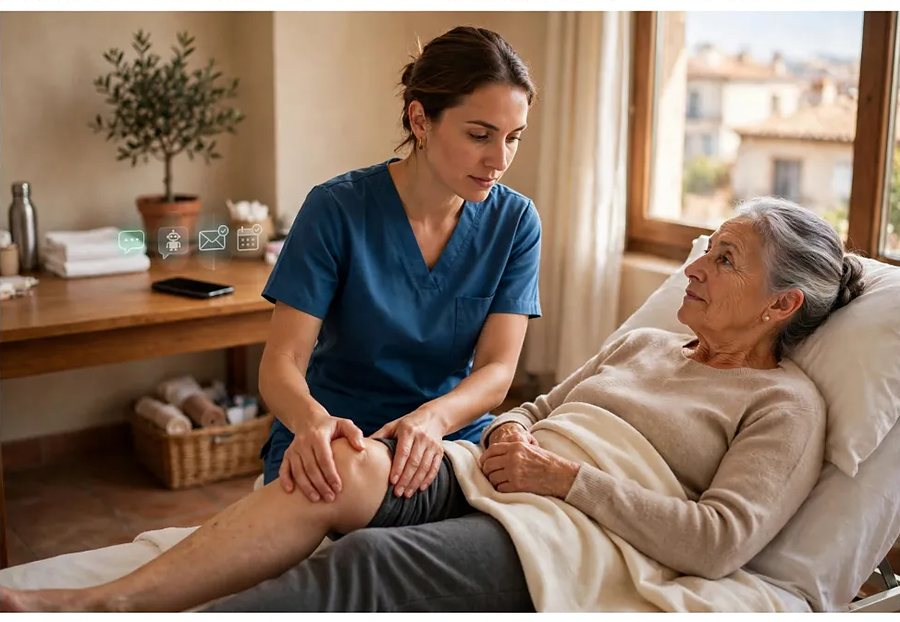
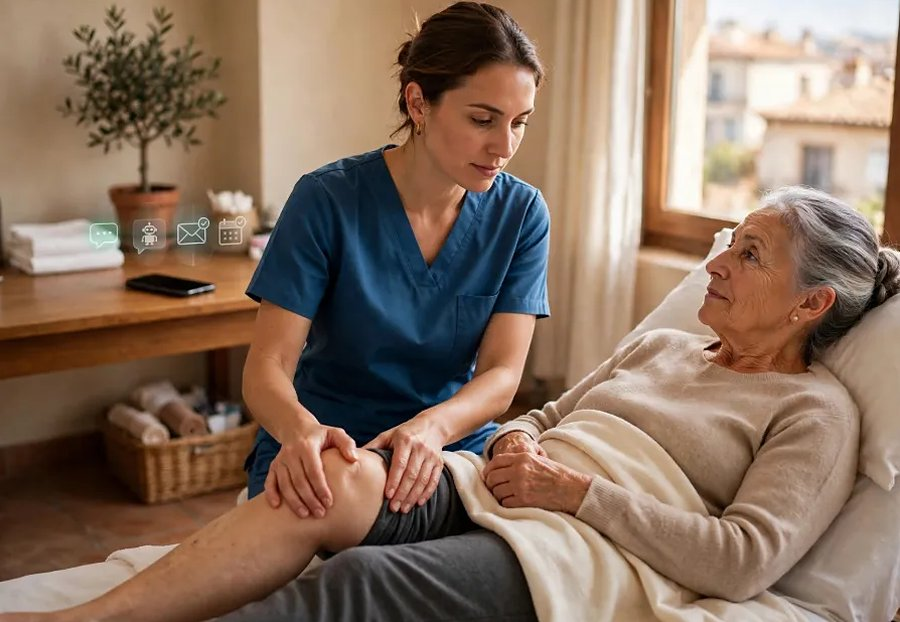
Fotos: sin bordes blancos, más transparentes en las páginas y con avisos flotantes

diff --git a/sectores/gimnasios.html b/sectores/gimnasios.html
@@ -302,7 +302,7 @@ footer{background:var(--bg-panel);border-top:1px solid var(--grey-line);padding:
   </div>
 </div>
 
-<style>.page-photo{max-width:940px;margin:34px auto 0;padding:0 24px;}.page-photo img{display:block;width:100%;height:auto;aspect-ratio:900/622;object-fit:cover;border-radius:20px;border:1px solid var(--grey-line);box-shadow:0 24px 60px -26px rgba(0,0,0,.7);}@media(max-width:700px){.page-photo{margin-top:22px;padding:0 16px;}.page-photo img{border-radius:14px;}}</style><figure class="page-photo"><img src="../assets/sectores/gimnasios.jpg" alt="Un entrenador atendiendo a una socia en recepción con el asistente virtual gestionando reservas y mensajes" width="900" height="622" loading="lazy"></figure>
+<style>.page-photo{position:relative;max-width:940px;margin:34px auto 0;padding:0 24px;}.page-photo .pp-img{position:relative;border-radius:20px;overflow:hidden;border:1px solid var(--grey-line);}.page-photo img{display:block;width:100%;height:auto;aspect-ratio:900/622;object-fit:cover;opacity:.5;filter:saturate(.85);-webkit-mask-image:linear-gradient(180deg,#000 45%,transparent 100%);mask-image:linear-gradient(180deg,#000 45%,transparent 100%);}.pp-chip{position:absolute;z-index:2;display:inline-flex;align-items:center;gap:8px;max-width:78%;padding:7px 12px;border-radius:99px;background:rgba(20,19,25,.8);backdrop-filter:blur(8px);border:1px solid rgba(255,255,255,.16);color:#fff;font-size:.74rem;font-weight:600;box-shadow:0 8px 24px rgba(0,0,0,.35);animation:ppFloat 5s ease-in-out infinite;}.pp-chip i{width:8px;height:8px;border-radius:50%;background:#22c55e;flex-shrink:0;box-shadow:0 0 0 4px rgba(34,197,94,.25);}.pp-chip.a{left:20px;top:16px;}.pp-chip.b{right:20px;bottom:18px;animation-delay:-2.5s;}.pp-chip.b i{background:var(--gold);box-shadow:0 0 0 4px rgba(217,168,63,.25);}@keyframes ppFloat{0%,100%{transform:translateY(0);}50%{transform:translateY(-5px);}}@media(prefers-reduced-motion:reduce){.pp-chip{animation:none;}}@media(max-width:700px){.page-photo{margin-top:22px;padding:0 16px;}.page-photo .pp-img{border-radius:14px;}.pp-chip{font-size:.68rem;padding:6px 10px;}.pp-chip.a{left:24px;top:12px;}.pp-chip.b{right:24px;bottom:12px;}}</style><figure class="page-photo"><div class="pp-img"><img src="../assets/sectores/gimnasios.jpg" alt="Un entrenador atendiendo a una socia en recepción con el asistente virtual gestionando reservas y mensajes" width="900" height="622" loading="lazy"><span class="pp-chip a"><i></i>Reserva de clase confirmada</span><span class="pp-chip b"><i></i>Mensaje respondido por el asistente virtual</span></div></figure>
 
 <div class="section-block reveal">
   <div class="container">

diff --git a/sectores/abogados.html b/sectores/abogados.html
@@ -302,7 +302,7 @@ footer{background:var(--bg-panel);border-top:1px solid var(--grey-line);padding:
   </div>
 </div>
 
-<style>.page-photo{max-width:940px;margin:34px auto 0;padding:0 24px;}.page-photo img{display:block;width:100%;height:auto;aspect-ratio:900/622;object-fit:cover;border-radius:20px;border:1px solid var(--grey-line);box-shadow:0 24px 60px -26px rgba(0,0,0,.7);}@media(max-width:700px){.page-photo{margin-top:22px;padding:0 16px;}.page-photo img{border-radius:14px;}}</style><figure class="page-photo"><img src="../assets/sectores/abogados.jpg" alt="Una abogada atendiendo a un cliente en su despacho con el asistente virtual gestionando citas y correos" width="900" height="622" loading="lazy"></figure>
+<style>.page-photo{position:relative;max-width:940px;margin:34px auto 0;padding:0 24px;}.page-photo .pp-img{position:relative;border-radius:20px;overflow:hidden;border:1px solid var(--grey-line);}.page-photo img{display:block;width:100%;height:auto;aspect-ratio:900/622;object-fit:cover;opacity:.5;filter:saturate(.85);-webkit-mask-image:linear-gradient(180deg,#000 45%,transparent 100%);mask-image:linear-gradient(180deg,#000 45%,transparent 100%);}.pp-chip{position:absolute;z-index:2;display:inline-flex;align-items:center;gap:8px;max-width:78%;padding:7px 12px;border-radius:99px;background:rgba(20,19,25,.8);backdrop-filter:blur(8px);border:1px solid rgba(255,255,255,.16);color:#fff;font-size:.74rem;font-weight:600;box-shadow:0 8px 24px rgba(0,0,0,.35);animation:ppFloat 5s ease-in-out infinite;}.pp-chip i{width:8px;height:8px;border-radius:50%;background:#22c55e;flex-shrink:0;box-shadow:0 0 0 4px rgba(34,197,94,.25);}.pp-chip.a{left:20px;top:16px;}.pp-chip.b{right:20px;bottom:18px;animation-delay:-2.5s;}.pp-chip.b i{background:var(--gold);box-shadow:0 0 0 4px rgba(217,168,63,.25);}@keyframes ppFloat{0%,100%{transform:translateY(0);}50%{transform:translateY(-5px);}}@media(prefers-reduced-motion:reduce){.pp-chip{animation:none;}}@media(max-width:700px){.page-photo{margin-top:22px;padding:0 16px;}.page-photo .pp-img{border-radius:14px;}.pp-chip{font-size:.68rem;padding:6px 10px;}.pp-chip.a{left:24px;top:12px;}.pp-chip.b{right:24px;bottom:12px;}}</style><figure class="page-photo"><div class="pp-img"><img src="../assets/sectores/abogados.jpg" alt="Una abogada atendiendo a un cliente en su despacho con el asistente virtual gestionando citas y correos" width="900" height="622" loading="lazy"><span class="pp-chip a"><i></i>Cita agendada en tu calendario</span><span class="pp-chip b"><i></i>Correo clasificado por el asistente virtual</span></div></figure>
 
 <div class="section-block reveal">
   <div class="container">

diff --git a/sectores/inmobiliarias.html b/sectores/inmobiliarias.html
@@ -302,7 +302,7 @@ footer{background:var(--bg-panel);border-top:1px solid var(--grey-line);padding:
   </div>
 </div>
 
-<style>.page-photo{max-width:940px;margin:34px auto 0;padding:0 24px;}.page-photo img{display:block;width:100%;height:auto;aspect-ratio:900/622;object-fit:cover;border-radius:20px;border:1px solid var(--grey-line);box-shadow:0 24px 60px -26px rgba(0,0,0,.7);}@media(max-width:700px){.page-photo{margin-top:22px;padding:0 16px;}.page-photo img{border-radius:14px;}}</style><figure class="page-photo"><img src="../assets/sectores/inmobiliarias.jpg" alt="Una agente inmobiliaria explicando una vivienda a una pareja con su asistente virtual respondiendo consultas" width="900" height="622" loading="lazy"></figure>
+<style>.page-photo{position:relative;max-width:940px;margin:34px auto 0;padding:0 24px;}.page-photo .pp-img{position:relative;border-radius:20px;overflow:hidden;border:1px solid var(--grey-line);}.page-photo img{display:block;width:100%;height:auto;aspect-ratio:900/622;object-fit:cover;opacity:.5;filter:saturate(.85);-webkit-mask-image:linear-gradient(180deg,#000 45%,transparent 100%);mask-image:linear-gradient(180deg,#000 45%,transparent 100%);}.pp-chip{position:absolute;z-index:2;display:inline-flex;align-items:center;gap:8px;max-width:78%;padding:7px 12px;border-radius:99px;background:rgba(20,19,25,.8);backdrop-filter:blur(8px);border:1px solid rgba(255,255,255,.16);color:#fff;font-size:.74rem;font-weight:600;box-shadow:0 8px 24px rgba(0,0,0,.35);animation:ppFloat 5s ease-in-out infinite;}.pp-chip i{width:8px;height:8px;border-radius:50%;background:#22c55e;flex-shrink:0;box-shadow:0 0 0 4px rgba(34,197,94,.25);}.pp-chip.a{left:20px;top:16px;}.pp-chip.b{right:20px;bottom:18px;animation-delay:-2.5s;}.pp-chip.b i{background:var(--gold);box-shadow:0 0 0 4px rgba(217,168,63,.25);}@keyframes ppFloat{0%,100%{transform:translateY(0);}50%{transform:translateY(-5px);}}@media(prefers-reduced-motion:reduce){.pp-chip{animation:none;}}@media(max-width:700px){.page-photo{margin-top:22px;padding:0 16px;}.page-photo .pp-img{border-radius:14px;}.pp-chip{font-size:.68rem;padding:6px 10px;}.pp-chip.a{left:24px;top:12px;}.pp-chip.b{right:24px;bottom:12px;}}</style><figure class="page-photo"><div class="pp-img"><img src="../assets/sectores/inmobiliarias.jpg" alt="Una agente inmobiliaria explicando una vivienda a una pareja con su asistente virtual respondiendo consultas" width="900" height="622" loading="lazy"><span class="pp-chip a"><i></i>Consulta sobre un piso respondida</span><span class="pp-chip b"><i></i>Visita agendada</span></div></figure>
 
 <div class="section-block reveal">
   <div class="container">

diff --git a/sectores/comercio-pequeno.html b/sectores/comercio-pequeno.html
@@ -298,7 +298,7 @@ footer{background:var(--bg-panel);border-top:1px solid var(--grey-line);padding:
   </div>
 </div>
 
-<style>.page-photo{max-width:1040px;margin:34px auto 0;padding:0 24px;}.page-photo img{display:block;width:100%;height:auto;aspect-ratio:1400/788;object-fit:cover;border-radius:20px;border:1px solid var(--grey-line);box-shadow:0 24px 60px -26px rgba(0,0,0,.7);}@media(max-width:700px){.page-photo{margin-top:22px;padding:0 16px;}.page-photo img{border-radius:14px;}}</style><figure class="page-photo"><img src="../assets/paginas/comercio.jpg" alt="Un comercio de barrio: el tendero atiende a una clienta mientras su asistente virtual gestiona mensajes y citas" width="1400" height="788" loading="lazy"></figure>
+<style>.page-photo{position:relative;max-width:1040px;margin:34px auto 0;padding:0 24px;}.page-photo .pp-img{position:relative;border-radius:20px;overflow:hidden;border:1px solid var(--grey-line);}.page-photo img{display:block;width:100%;height:auto;aspect-ratio:1400/788;object-fit:cover;opacity:.5;filter:saturate(.85);-webkit-mask-image:linear-gradient(180deg,#000 45%,transparent 100%);mask-image:linear-gradient(180deg,#000 45%,transparent 100%);}.pp-chip{position:absolute;z-index:2;display:inline-flex;align-items:center;gap:8px;max-width:78%;padding:7px 12px;border-radius:99px;background:rgba(20,19,25,.8);backdrop-filter:blur(8px);border:1px solid rgba(255,255,255,.16);color:#fff;font-size:.74rem;font-weight:600;box-shadow:0 8px 24px rgba(0,0,0,.35);animation:ppFloat 5s ease-in-out infinite;}.pp-chip i{width:8px;height:8px;border-radius:50%;background:#22c55e;flex-shrink:0;box-shadow:0 0 0 4px rgba(34,197,94,.25);}.pp-chip.a{left:20px;top:16px;}.pp-chip.b{right:20px;bottom:18px;animation-delay:-2.5s;}.pp-chip.b i{background:var(--gold);box-shadow:0 0 0 4px rgba(217,168,63,.25);}@keyframes ppFloat{0%,100%{transform:translateY(0);}50%{transform:translateY(-5px);}}@media(prefers-reduced-motion:reduce){.pp-chip{animation:none;}}@media(max-width:700px){.page-photo{margin-top:22px;padding:0 16px;}.page-photo .pp-img{border-radius:14px;}.pp-chip{font-size:.68rem;padding:6px 10px;}.pp-chip.a{left:24px;top:12px;}.pp-chip.b{right:24px;bottom:12px;}}</style><figure class="page-photo"><div class="pp-img"><img src="../assets/paginas/comercio.jpg" alt="Un comercio de barrio: el tendero atiende a una clienta mientras su asistente virtual gestiona mensajes y citas" width="1400" height="788" loading="lazy"><span class="pp-chip a"><i></i>Consulta de un cliente respondida</span><span class="pp-chip b"><i></i>Cita agendada</span></div></figure>
 
 <div class="section-block reveal">
   <div class="container">

diff --git a/sectores/clinicas.html b/sectores/clinicas.html
@@ -302,7 +302,7 @@ footer{background:var(--bg-panel);border-top:1px solid var(--grey-line);padding:
   </div>
 </div>
 
-<style>.page-photo{max-width:940px;margin:34px auto 0;padding:0 24px;}.page-photo img{display:block;width:100%;height:auto;aspect-ratio:900/622;object-fit:cover;border-radius:20px;border:1px solid var(--grey-line);box-shadow:0 24px 60px -26px rgba(0,0,0,.7);}@media(max-width:700px){.page-photo{margin-top:22px;padding:0 16px;}.page-photo img{border-radius:14px;}}</style><figure class="page-photo"><img src="../assets/sectores/clinicas.jpg" alt="Una fisioterapeuta atendiendo a una paciente mientras el asistente virtual gestiona las citas" width="900" height="622" loading="lazy"></figure>
+<style>.page-photo{position:relative;max-width:940px;margin:34px auto 0;padding:0 24px;}.page-photo .pp-img{position:relative;border-radius:20px;overflow:hidden;border:1px solid var(--grey-line);}.page-photo img{display:block;width:100%;height:auto;aspect-ratio:900/622;object-fit:cover;opacity:.5;filter:saturate(.85);-webkit-mask-image:linear-gradient(180deg,#000 45%,transparent 100%);mask-image:linear-gradient(180deg,#000 45%,transparent 100%);}.pp-chip{position:absolute;z-index:2;display:inline-flex;align-items:center;gap:8px;max-width:78%;padding:7px 12px;border-radius:99px;background:rgba(20,19,25,.8);backdrop-filter:blur(8px);border:1px solid rgba(255,255,255,.16);color:#fff;font-size:.74rem;font-weight:600;box-shadow:0 8px 24px rgba(0,0,0,.35);animation:ppFloat 5s ease-in-out infinite;}.pp-chip i{width:8px;height:8px;border-radius:50%;background:#22c55e;flex-shrink:0;box-shadow:0 0 0 4px rgba(34,197,94,.25);}.pp-chip.a{left:20px;top:16px;}.pp-chip.b{right:20px;bottom:18px;animation-delay:-2.5s;}.pp-chip.b i{background:var(--gold);box-shadow:0 0 0 4px rgba(217,168,63,.25);}@keyframes ppFloat{0%,100%{transform:translateY(0);}50%{transform:translateY(-5px);}}@media(prefers-reduced-motion:reduce){.pp-chip{animation:none;}}@media(max-width:700px){.page-photo{margin-top:22px;padding:0 16px;}.page-photo .pp-img{border-radius:14px;}.pp-chip{font-size:.68rem;padding:6px 10px;}.pp-chip.a{left:24px;top:12px;}.pp-chip.b{right:24px;bottom:12px;}}</style><figure class="page-photo"><div class="pp-img"><img src="../assets/sectores/clinicas.jpg" alt="Una fisioterapeuta atendiendo a una paciente mientras el asistente virtual gestiona las citas" width="900" height="622" loading="lazy"><span class="pp-chip a"><i></i>Recordatorio de cita enviado</span><span class="pp-chip b"><i></i>Paciente atendido por WhatsApp</span></div></figure>
 
 <div class="section-block reveal" style="padding-bottom:0;">
   <div class="container">

diff --git a/soluciones/llamadas.html b/soluciones/llamadas.html
@@ -302,7 +302,7 @@ footer{background:var(--bg-panel);border-top:1px solid var(--grey-line);padding:
   </div>
 </div>
 
-<style>.page-photo{max-width:1040px;margin:34px auto 0;padding:0 24px;}.page-photo img{display:block;width:100%;height:auto;aspect-ratio:1200/750;object-fit:cover;border-radius:20px;border:1px solid var(--grey-line);box-shadow:0 24px 60px -26px rgba(0,0,0,.7);}@media(max-width:700px){.page-photo{margin-top:22px;padding:0 16px;}.page-photo img{border-radius:14px;}}</style><figure class="page-photo"><img src="../assets/paginas/llamadas.jpg" alt="Una veterinaria con un gatito en su clínica mientras el asistente virtual atiende las llamadas" width="1200" height="750" loading="lazy"></figure>
+<style>.page-photo{position:relative;max-width:1040px;margin:34px auto 0;padding:0 24px;}.page-photo .pp-img{position:relative;border-radius:20px;overflow:hidden;border:1px solid var(--grey-line);}.page-photo img{display:block;width:100%;height:auto;aspect-ratio:1200/750;object-fit:cover;opacity:.5;filter:saturate(.85);-webkit-mask-image:linear-gradient(180deg,#000 45%,transparent 100%);mask-image:linear-gradient(180deg,#000 45%,transparent 100%);}.pp-chip{position:absolute;z-index:2;display:inline-flex;align-items:center;gap:8px;max-width:78%;padding:7px 12px;border-radius:99px;background:rgba(20,19,25,.8);backdrop-filter:blur(8px);border:1px solid rgba(255,255,255,.16);color:#fff;font-size:.74rem;font-weight:600;box-shadow:0 8px 24px rgba(0,0,0,.35);animation:ppFloat 5s ease-in-out infinite;}.pp-chip i{width:8px;height:8px;border-radius:50%;background:#22c55e;flex-shrink:0;box-shadow:0 0 0 4px rgba(34,197,94,.25);}.pp-chip.a{left:20px;top:16px;}.pp-chip.b{right:20px;bottom:18px;animation-delay:-2.5s;}.pp-chip.b i{background:var(--gold);box-shadow:0 0 0 4px rgba(217,168,63,.25);}@keyframes ppFloat{0%,100%{transform:translateY(0);}50%{transform:translateY(-5px);}}@media(prefers-reduced-motion:reduce){.pp-chip{animation:none;}}@media(max-width:700px){.page-photo{margin-top:22px;padding:0 16px;}.page-photo .pp-img{border-radius:14px;}.pp-chip{font-size:.68rem;padding:6px 10px;}.pp-chip.a{left:24px;top:12px;}.pp-chip.b{right:24px;bottom:12px;}}</style><figure class="page-photo"><div class="pp-img"><img src="../assets/paginas/llamadas.jpg" alt="Una veterinaria con un gatito en su clínica mientras el asistente virtual atiende las llamadas" width="1200" height="750" loading="lazy"><span class="pp-chip a"><i></i>Llamada contestada por el asistente virtual</span><span class="pp-chip b"><i></i>Cita agendada</span></div></figure>
 
 <div class="section-block reveal">
   <div class="container">

diff --git a/sectores/oficios.html b/sectores/oficios.html
@@ -300,7 +300,7 @@ footer{background:var(--bg-panel);border-top:1px solid var(--grey-line);padding:
   </div>
 </div>
 
-<style>.page-photo{max-width:940px;margin:34px auto 0;padding:0 24px;}.page-photo img{display:block;width:100%;height:auto;aspect-ratio:900/622;object-fit:cover;border-radius:20px;border:1px solid var(--grey-line);box-shadow:0 24px 60px -26px rgba(0,0,0,.7);}@media(max-width:700px){.page-photo{margin-top:22px;padding:0 16px;}.page-photo img{border-radius:14px;}}</style><figure class="page-photo"><img src="../assets/sectores/oficios.jpg" alt="Un fontanero trabajando bajo el fregadero mientras el asistente virtual atiende a sus clientes" width="900" height="622" loading="lazy"></figure>
+<style>.page-photo{position:relative;max-width:940px;margin:34px auto 0;padding:0 24px;}.page-photo .pp-img{position:relative;border-radius:20px;overflow:hidden;border:1px solid var(--grey-line);}.page-photo img{display:block;width:100%;height:auto;aspect-ratio:900/622;object-fit:cover;opacity:.5;filter:saturate(.85);-webkit-mask-image:linear-gradient(180deg,#000 45%,transparent 100%);mask-image:linear-gradient(180deg,#000 45%,transparent 100%);}.pp-chip{position:absolute;z-index:2;display:inline-flex;align-items:center;gap:8px;max-width:78%;padding:7px 12px;border-radius:99px;background:rgba(20,19,25,.8);backdrop-filter:blur(8px);border:1px solid rgba(255,255,255,.16);color:#fff;font-size:.74rem;font-weight:600;box-shadow:0 8px 24px rgba(0,0,0,.35);animation:ppFloat 5s ease-in-out infinite;}.pp-chip i{width:8px;height:8px;border-radius:50%;background:#22c55e;flex-shrink:0;box-shadow:0 0 0 4px rgba(34,197,94,.25);}.pp-chip.a{left:20px;top:16px;}.pp-chip.b{right:20px;bottom:18px;animation-delay:-2.5s;}.pp-chip.b i{background:var(--gold);box-shadow:0 0 0 4px rgba(217,168,63,.25);}@keyframes ppFloat{0%,100%{transform:translateY(0);}50%{transform:translateY(-5px);}}@media(prefers-reduced-motion:reduce){.pp-chip{animation:none;}}@media(max-width:700px){.page-photo{margin-top:22px;padding:0 16px;}.page-photo .pp-img{border-radius:14px;}.pp-chip{font-size:.68rem;padding:6px 10px;}.pp-chip.a{left:24px;top:12px;}.pp-chip.b{right:24px;bottom:12px;}}</style><figure class="page-photo"><div class="pp-img"><img src="../assets/sectores/oficios.jpg" alt="Un fontanero trabajando bajo el fregadero mientras el asistente virtual atiende a sus clientes" width="900" height="622" loading="lazy"><span class="pp-chip a"><i></i>Presupuesto pedido por WhatsApp</span><span class="pp-chip b"><i></i>Nuevo cliente avisado</span></div></figure>
 
 <div class="section-block reveal">
   <div class="container">

diff --git a/sectores/estetica.html b/sectores/estetica.html
@@ -302,7 +302,7 @@ footer{background:var(--bg-panel);border-top:1px solid var(--grey-line);padding:
   </div>
 </div>
 
-<style>.page-photo{max-width:940px;margin:34px auto 0;padding:0 24px;}.page-photo img{display:block;width:100%;height:auto;aspect-ratio:900/622;object-fit:cover;border-radius:20px;border:1px solid var(--grey-line);box-shadow:0 24px 60px -26px rgba(0,0,0,.7);}@media(max-width:700px){.page-photo{margin-top:22px;padding:0 16px;}.page-photo img{border-radius:14px;}}</style><figure class="page-photo"><img src="../assets/sectores/estetica.jpg" alt="Una esteticista con una clienta en cabina mientras el asistente virtual gestiona las reservas" width="900" height="622" loading="lazy"></figure>
+<style>.page-photo{position:relative;max-width:940px;margin:34px auto 0;padding:0 24px;}.page-photo .pp-img{position:relative;border-radius:20px;overflow:hidden;border:1px solid var(--grey-line);}.page-photo img{display:block;width:100%;height:auto;aspect-ratio:900/622;object-fit:cover;opacity:.5;filter:saturate(.85);-webkit-mask-image:linear-gradient(180deg,#000 45%,transparent 100%);mask-image:linear-gradient(180deg,#000 45%,transparent 100%);}.pp-chip{position:absolute;z-index:2;display:inline-flex;align-items:center;gap:8px;max-width:78%;padding:7px 12px;border-radius:99px;background:rgba(20,19,25,.8);backdrop-filter:blur(8px);border:1px solid rgba(255,255,255,.16);color:#fff;font-size:.74rem;font-weight:600;box-shadow:0 8px 24px rgba(0,0,0,.35);animation:ppFloat 5s ease-in-out infinite;}.pp-chip i{width:8px;height:8px;border-radius:50%;background:#22c55e;flex-shrink:0;box-shadow:0 0 0 4px rgba(34,197,94,.25);}.pp-chip.a{left:20px;top:16px;}.pp-chip.b{right:20px;bottom:18px;animation-delay:-2.5s;}.pp-chip.b i{background:var(--gold);box-shadow:0 0 0 4px rgba(217,168,63,.25);}@keyframes ppFloat{0%,100%{transform:translateY(0);}50%{transform:translateY(-5px);}}@media(prefers-reduced-motion:reduce){.pp-chip{animation:none;}}@media(max-width:700px){.page-photo{margin-top:22px;padding:0 16px;}.page-photo .pp-img{border-radius:14px;}.pp-chip{font-size:.68rem;padding:6px 10px;}.pp-chip.a{left:24px;top:12px;}.pp-chip.b{right:24px;bottom:12px;}}</style><figure class="page-photo"><div class="pp-img"><img src="../assets/sectores/estetica.jpg" alt="Una esteticista con una clienta en cabina mientras el asistente virtual gestiona las reservas" width="900" height="622" loading="lazy"><span class="pp-chip a"><i></i>Reserva confirmada</span><span class="pp-chip b"><i></i>Recordatorio enviado a la clienta</span></div></figure>
 
 <div class="section-block reveal">
   <div class="container">

diff --git a/soluciones/whatsapp.html b/soluciones/whatsapp.html
@@ -309,7 +309,7 @@ footer{background:var(--bg-panel);border-top:1px solid var(--grey-line);padding:
   </div>
 </div>
 
-<style>.page-photo{max-width:1040px;margin:34px auto 0;padding:0 24px;}.page-photo img{display:block;width:100%;height:auto;aspect-ratio:1200/750;object-fit:cover;border-radius:20px;border:1px solid var(--grey-line);box-shadow:0 24px 60px -26px rgba(0,0,0,.7);}@media(max-width:700px){.page-photo{margin-top:22px;padding:0 16px;}.page-photo img{border-radius:14px;}}</style><figure class="page-photo"><img src="../assets/paginas/whatsapp.jpg" alt="Un mecánico atendiendo a un cliente mientras el asistente virtual responde por WhatsApp" width="1200" height="750" loading="lazy"></figure>
+<style>.page-photo{position:relative;max-width:1040px;margin:34px auto 0;padding:0 24px;}.page-photo .pp-img{position:relative;border-radius:20px;overflow:hidden;border:1px solid var(--grey-line);}.page-photo img{display:block;width:100%;height:auto;aspect-ratio:1200/750;object-fit:cover;opacity:.5;filter:saturate(.85);-webkit-mask-image:linear-gradient(180deg,#000 45%,transparent 100%);mask-image:linear-gradient(180deg,#000 45%,transparent 100%);}.pp-chip{position:absolute;z-index:2;display:inline-flex;align-items:center;gap:8px;max-width:78%;padding:7px 12px;border-radius:99px;background:rgba(20,19,25,.8);backdrop-filter:blur(8px);border:1px solid rgba(255,255,255,.16);color:#fff;font-size:.74rem;font-weight:600;box-shadow:0 8px 24px rgba(0,0,0,.35);animation:ppFloat 5s ease-in-out infinite;}.pp-chip i{width:8px;height:8px;border-radius:50%;background:#22c55e;flex-shrink:0;box-shadow:0 0 0 4px rgba(34,197,94,.25);}.pp-chip.a{left:20px;top:16px;}.pp-chip.b{right:20px;bottom:18px;animation-delay:-2.5s;}.pp-chip.b i{background:var(--gold);box-shadow:0 0 0 4px rgba(217,168,63,.25);}@keyframes ppFloat{0%,100%{transform:translateY(0);}50%{transform:translateY(-5px);}}@media(prefers-reduced-motion:reduce){.pp-chip{animation:none;}}@media(max-width:700px){.page-photo{margin-top:22px;padding:0 16px;}.page-photo .pp-img{border-radius:14px;}.pp-chip{font-size:.68rem;padding:6px 10px;}.pp-chip.a{left:24px;top:12px;}.pp-chip.b{right:24px;bottom:12px;}}</style><figure class="page-photo"><div class="pp-img"><img src="../assets/paginas/whatsapp.jpg" alt="Un mecánico atendiendo a un cliente mientras el asistente virtual responde por WhatsApp" width="1200" height="750" loading="lazy"><span class="pp-chip a"><i></i>Mensaje respondido en segundos</span><span class="pp-chip b"><i></i>Cita agendada</span></div></figure>
 
 <div class="section-block reveal">
   <div class="container">

diff --git a/soluciones/ciberseguridad.html b/soluciones/ciberseguridad.html
@@ -278,7 +278,7 @@ footer{background:var(--bg-panel);border-top:1px solid var(--grey-line);padding:
   </div>
 </div>
 
-<style>.page-photo{max-width:1040px;margin:34px auto 0;padding:0 24px;}.page-photo img{display:block;width:100%;height:auto;aspect-ratio:1200/750;object-fit:cover;border-radius:20px;border:1px solid var(--grey-line);box-shadow:0 24px 60px -26px rgba(0,0,0,.7);}@media(max-width:700px){.page-photo{margin-top:22px;padding:0 16px;}.page-photo img{border-radius:14px;}}</style><figure class="page-photo"><img src="../assets/paginas/ciberseguridad.jpg" alt="Un autónomo trabajando con su portátil protegido por seguridad informática" width="1200" height="750" loading="lazy"></figure>
+<style>.page-photo{position:relative;max-width:1040px;margin:34px auto 0;padding:0 24px;}.page-photo .pp-img{position:relative;border-radius:20px;overflow:hidden;border:1px solid var(--grey-line);}.page-photo img{display:block;width:100%;height:auto;aspect-ratio:1200/750;object-fit:cover;opacity:.5;filter:saturate(.85);-webkit-mask-image:linear-gradient(180deg,#000 45%,transparent 100%);mask-image:linear-gradient(180deg,#000 45%,transparent 100%);}.pp-chip{position:absolute;z-index:2;display:inline-flex;align-items:center;gap:8px;max-width:78%;padding:7px 12px;border-radius:99px;background:rgba(20,19,25,.8);backdrop-filter:blur(8px);border:1px solid rgba(255,255,255,.16);color:#fff;font-size:.74rem;font-weight:600;box-shadow:0 8px 24px rgba(0,0,0,.35);animation:ppFloat 5s ease-in-out infinite;}.pp-chip i{width:8px;height:8px;border-radius:50%;background:#22c55e;flex-shrink:0;box-shadow:0 0 0 4px rgba(34,197,94,.25);}.pp-chip.a{left:20px;top:16px;}.pp-chip.b{right:20px;bottom:18px;animation-delay:-2.5s;}.pp-chip.b i{background:var(--gold);box-shadow:0 0 0 4px rgba(217,168,63,.25);}@keyframes ppFloat{0%,100%{transform:translateY(0);}50%{transform:translateY(-5px);}}@media(prefers-reduced-motion:reduce){.pp-chip{animation:none;}}@media(max-width:700px){.page-photo{margin-top:22px;padding:0 16px;}.page-photo .pp-img{border-radius:14px;}.pp-chip{font-size:.68rem;padding:6px 10px;}.pp-chip.a{left:24px;top:12px;}.pp-chip.b{right:24px;bottom:12px;}}</style><figure class="page-photo"><div class="pp-img"><img src="../assets/paginas/ciberseguridad.jpg" alt="Un autónomo trabajando con su portátil protegido por seguridad informática" width="1200" height="750" loading="lazy"><span class="pp-chip a"><i></i>Copia de seguridad completada</span><span class="pp-chip b"><i></i>Accesos revisados</span></div></figure>
 
 <div class="section-block reveal">
   <div class="container">

diff --git a/soluciones/email-ia.html b/soluciones/email-ia.html
@@ -298,7 +298,7 @@ footer{background:var(--bg-panel);border-top:1px solid var(--grey-line);padding:
   </div>
 </div>
 
-<style>.page-photo{max-width:1040px;margin:34px auto 0;padding:0 24px;}.page-photo img{display:block;width:100%;height:auto;aspect-ratio:1200/750;object-fit:cover;border-radius:20px;border:1px solid var(--grey-line);box-shadow:0 24px 60px -26px rgba(0,0,0,.7);}@media(max-width:700px){.page-photo{margin-top:22px;padding:0 16px;}.page-photo img{border-radius:14px;}}</style><figure class="page-photo"><img src="../assets/paginas/email-ia.jpg" alt="Una oficina donde el correo se ordena y contesta con ayuda de un asistente virtual" width="1200" height="750" loading="lazy"></figure>
+<style>.page-photo{position:relative;max-width:1040px;margin:34px auto 0;padding:0 24px;}.page-photo .pp-img{position:relative;border-radius:20px;overflow:hidden;border:1px solid var(--grey-line);}.page-photo img{display:block;width:100%;height:auto;aspect-ratio:1200/750;object-fit:cover;opacity:.5;filter:saturate(.85);-webkit-mask-image:linear-gradient(180deg,#000 45%,transparent 100%);mask-image:linear-gradient(180deg,#000 45%,transparent 100%);}.pp-chip{position:absolute;z-index:2;display:inline-flex;align-items:center;gap:8px;max-width:78%;padding:7px 12px;border-radius:99px;background:rgba(20,19,25,.8);backdrop-filter:blur(8px);border:1px solid rgba(255,255,255,.16);color:#fff;font-size:.74rem;font-weight:600;box-shadow:0 8px 24px rgba(0,0,0,.35);animation:ppFloat 5s ease-in-out infinite;}.pp-chip i{width:8px;height:8px;border-radius:50%;background:#22c55e;flex-shrink:0;box-shadow:0 0 0 4px rgba(34,197,94,.25);}.pp-chip.a{left:20px;top:16px;}.pp-chip.b{right:20px;bottom:18px;animation-delay:-2.5s;}.pp-chip.b i{background:var(--gold);box-shadow:0 0 0 4px rgba(217,168,63,.25);}@keyframes ppFloat{0%,100%{transform:translateY(0);}50%{transform:translateY(-5px);}}@media(prefers-reduced-motion:reduce){.pp-chip{animation:none;}}@media(max-width:700px){.page-photo{margin-top:22px;padding:0 16px;}.page-photo .pp-img{border-radius:14px;}.pp-chip{font-size:.68rem;padding:6px 10px;}.pp-chip.a{left:24px;top:12px;}.pp-chip.b{right:24px;bottom:12px;}}</style><figure class="page-photo"><div class="pp-img"><img src="../assets/paginas/email-ia.jpg" alt="Una oficina donde el correo se ordena y contesta con ayuda de un asistente virtual" width="1200" height="750" loading="lazy"><span class="pp-chip a"><i></i>Correo clasificado</span><span class="pp-chip b"><i></i>Borrador de respuesta listo</span></div></figure>
 
 <div class="section-block reveal">
   <div class="container">

diff --git a/soluciones/web-ia.html b/soluciones/web-ia.html
@@ -312,7 +312,7 @@ footer{background:var(--bg-panel);border-top:1px solid var(--grey-line);padding:
   </div>
 </div>
 
-<style>.page-photo{max-width:1040px;margin:34px auto 0;padding:0 24px;}.page-photo img{display:block;width:100%;height:auto;aspect-ratio:1200/750;object-fit:cover;border-radius:20px;border:1px solid var(--grey-line);box-shadow:0 24px 60px -26px rgba(0,0,0,.7);}@media(max-width:700px){.page-photo{margin-top:22px;padding:0 16px;}.page-photo img{border-radius:14px;}}</style><figure class="page-photo"><img src="../assets/paginas/web-ia.jpg" alt="Una persona consultando desde el móvil el asistente virtual de una web" width="1200" height="750" loading="lazy"></figure>
+<style>.page-photo{position:relative;max-width:1040px;margin:34px auto 0;padding:0 24px;}.page-photo .pp-img{position:relative;border-radius:20px;overflow:hidden;border:1px solid var(--grey-line);}.page-photo img{display:block;width:100%;height:auto;aspect-ratio:1200/750;object-fit:cover;opacity:.5;filter:saturate(.85);-webkit-mask-image:linear-gradient(180deg,#000 45%,transparent 100%);mask-image:linear-gradient(180deg,#000 45%,transparent 100%);}.pp-chip{position:absolute;z-index:2;display:inline-flex;align-items:center;gap:8px;max-width:78%;padding:7px 12px;border-radius:99px;background:rgba(20,19,25,.8);backdrop-filter:blur(8px);border:1px solid rgba(255,255,255,.16);color:#fff;font-size:.74rem;font-weight:600;box-shadow:0 8px 24px rgba(0,0,0,.35);animation:ppFloat 5s ease-in-out infinite;}.pp-chip i{width:8px;height:8px;border-radius:50%;background:#22c55e;flex-shrink:0;box-shadow:0 0 0 4px rgba(34,197,94,.25);}.pp-chip.a{left:20px;top:16px;}.pp-chip.b{right:20px;bottom:18px;animation-delay:-2.5s;}.pp-chip.b i{background:var(--gold);box-shadow:0 0 0 4px rgba(217,168,63,.25);}@keyframes ppFloat{0%,100%{transform:translateY(0);}50%{transform:translateY(-5px);}}@media(prefers-reduced-motion:reduce){.pp-chip{animation:none;}}@media(max-width:700px){.page-photo{margin-top:22px;padding:0 16px;}.page-photo .pp-img{border-radius:14px;}.pp-chip{font-size:.68rem;padding:6px 10px;}.pp-chip.a{left:24px;top:12px;}.pp-chip.b{right:24px;bottom:12px;}}</style><figure class="page-photo"><div class="pp-img"><img src="../assets/paginas/web-ia.jpg" alt="Una persona consultando desde el móvil el asistente virtual de una web" width="1200" height="750" loading="lazy"><span class="pp-chip a"><i></i>Consulta respondida en tu web</span><span class="pp-chip b"><i></i>Datos guardados en tu CRM</span></div></figure>
 
 <div class="section-block reveal">
   <div class="container">
